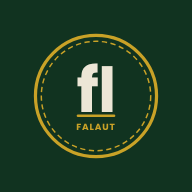
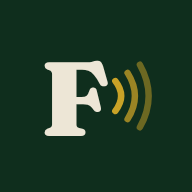
Add files via upload

Changed region(s): [[0.1562, 0.1562, 0.8438, 0.8438]]

diff --git a/index.html b/index.html
@@ -6,7 +6,7 @@
 <title>Falaut — Alemão (e inglês) de verdade, não de sala de aula</title>
 
 <!-- ============================================================
-     Falaut PWA  v15.0.0
+     Falaut PWA  v15.2.0
      Cole este bloco no <head> do index.html, logo depois do <title>.
      ============================================================ -->
 
@@ -66,7 +66,7 @@
 <meta property="og:type" content="website">
 <meta property="og:title" content="Falaut — Alemão e inglês de verdade">
 <meta property="og:description" content="Sotaque, ruído de fundo, interrupções — pratique o idioma como ele realmente acontece no dia a dia, pra quem quer se envolver de verdade.">
-<meta property="og:image" content="https://falareal-site31.vercel.app/og-image.png">
+<meta property="og:image" content="https://falareal-site31.vercel.app/og-image.jpg">
 <meta property="og:image:width" content="1200">
 <meta property="og:image:height" content="630">
 <meta property="og:url" content="https://falareal-site31.vercel.app">
@@ -93,7 +93,7 @@
 <meta name="twitter:card" content="summary_large_image">
 <meta name="twitter:title" content="Falaut — Alemão e inglês de verdade">
 <meta name="twitter:description" content="Sotaque, ruído de fundo, interrupções — pratique o idioma como ele realmente acontece no dia a dia, pra quem quer se envolver de verdade.">
-<meta name="twitter:image" content="https://falareal-site31.vercel.app/og-image.png">
+<meta name="twitter:image" content="https://falareal-site31.vercel.app/og-image.jpg">
 
 <link rel="icon" type="image/png" href="/favicon-32.png">
 <link rel="apple-touch-icon" href="/apple-touch-icon.png">
@@ -1387,6 +1387,12 @@
     .hero-visual{max-width:220px;}
     .feedback-fab, .mobile-account-fab{width:44px; height:44px; font-size:1.1rem;}
   }
+  /* v15.2.0: mascote no topo e na lição */
+  .hero-mascote img{width:100%; height:auto; display:block; -webkit-mask-image:linear-gradient(to bottom,#000 78%,transparent 100%); mask-image:linear-gradient(to bottom,#000 78%,transparent 100%);}
+  @media (min-width:901px){ .hero-top{grid-template-columns:0.8fr 1.2fr;} .hero-mascote{order:-1;} }
+  .lc-mascote{display:flex; align-items:center; gap:12px; margin-bottom:16px;}
+  .lc-mascote img{width:56px; height:56px; border-radius:50%; background:var(--teal); object-fit:cover; flex:none; box-shadow:0 0 0 3px rgba(240,166,58,0.6);}
+  .lc-mascote .lc-status{margin:0; text-align:left;}
   /* v15.0.0: LIÇÃO DO DIA (#licao) */
   #licao{padding:90px 0 70px;}
   .lc-card{max-width:620px; margin:0 auto; background:var(--ink-soft); border:1px solid var(--line); border-radius:22px; padding:24px; box-shadow:0 18px 50px rgba(0,0,0,0.3);}
@@ -1494,28 +1500,8 @@
         </div>
       </div>
 
-      <div class="hero-visual" aria-hidden="true">
-        <svg viewBox="0 0 480 480" xmlns="http://www.w3.org/2000/svg" class="hero-illustration-svg">
-<path d="M 100 90 Q 250 240 320 420" fill="none" style="stroke:var(--line); stroke-width:2; stroke-dasharray:4 8;" />
-<path d="M 48 40 H 162 A 18 18 0 0 1 180 58 V 92 A 18 18 0 0 1 162 110 H 48 A 18 18 0 0 1 30 92 V 58 A 18 18 0 0 1 48 40 Z" style="fill:var(--ink-soft); stroke:var(--teal); stroke-width:2;" opacity="0.50" class="bubble" />
-<path d="M 50.0 75.0 L 52.8 75.4 L 55.5 75.9 L 58.2 76.4 L 61.0 77.0 L 63.8 77.5 L 66.5 78.0 L 69.2 78.5 L 72.0 78.8 L 74.8 78.9 L 77.5 78.9 L 80.2 78.8 L 83.0 78.4 L 85.8 77.9 L 88.5 77.3 L 91.2 76.5 L 94.0 75.6 L 96.8 74.7 L 99.5 73.8 L 102.2 72.9 L 105.0 72.1 L 107.8 71.4 L 110.5 70.8 L 113.2 70.4 L 116.0 70.2 L 118.8 70.2 L 121.5 70.4 L 124.2 70.8 L 127.0 71.3 L 129.8 71.9 L 132.5 72.6 L 135.2 73.3 L 138.0 74.1 L 140.8 74.8 L 143.5 75.4 L 146.2 76.0 L 149.0 76.4 L 151.8 76.7 L 154.5 76.9 L 157.2 77.0 L 160.0 76.9" fill="none" style="stroke:var(--teal); stroke-width:3; stroke-linecap:round; stroke-linejoin:round;" />
-<path d="M 158 130 H 302 A 18 18 0 0 1 320 148 V 192 A 18 18 0 0 1 302 210 H 158 A 18 18 0 0 1 140 192 V 148 A 18 18 0 0 1 158 130 Z" style="fill:var(--ink-soft); stroke:var(--teal); stroke-width:2;" opacity="0.62" class="bubble" />
-<path d="M 160.0 170.0 L 163.5 171.1 L 167.0 172.4 L 170.5 173.6 L 174.0 174.8 L 177.5 175.6 L 181.0 176.0 L 184.5 175.9 L 188.0 175.2 L 191.5 174.0 L 195.0 172.3 L 198.5 170.2 L 202.0 168.0 L 205.5 165.8 L 209.0 163.9 L 212.5 162.3 L 216.0 161.4 L 219.5 161.2 L 223.0 161.7 L 226.5 162.9 L 230.0 164.7 L 233.5 167.0 L 237.0 169.4 L 240.5 171.9 L 244.0 174.2 L 247.5 176.1 L 251.0 177.4 L 254.5 178.0 L 258.0 178.0 L 261.5 177.3 L 265.0 176.0 L 268.5 174.4 L 272.0 172.5 L 275.5 170.6 L 279.0 168.9 L 282.5 167.4 L 286.0 166.4 L 289.5 165.8 L 293.0 165.7 L 296.5 166.0 L 300.0 166.6" fill="none" style="stroke:var(--teal); stroke-width:3; stroke-linecap:round; stroke-linejoin:round;" />
-<path d="M 108 240 H 282 A 18 18 0 0 1 300 258 V 312 A 18 18 0 0 1 282 330 H 108 A 18 18 0 0 1 90 312 V 258 A 18 18 0 0 1 108 240 Z" style="fill:var(--ink-soft); stroke:var(--amber); stroke-width:2;" opacity="0.74" class="bubble" />
-<path d="M 110.0 285.0 L 114.2 287.7 L 118.5 290.4 L 122.8 292.6 L 127.0 293.8 L 131.2 293.4 L 135.5 291.4 L 139.8 288.0 L 144.0 283.6 L 148.2 279.0 L 152.5 275.0 L 156.8 272.5 L 161.0 272.0 L 165.2 273.7 L 169.5 277.5 L 173.8 282.8 L 178.0 288.6 L 182.2 294.0 L 186.5 298.0 L 190.8 299.9 L 195.0 299.3 L 199.2 296.2 L 203.5 291.3 L 207.8 285.5 L 212.0 279.6 L 216.2 274.9 L 220.5 272.0 L 224.8 271.3 L 229.0 273.0 L 233.2 276.5 L 237.5 281.2 L 241.8 286.1 L 246.0 290.4 L 250.2 293.5 L 254.5 294.8 L 258.8 294.3 L 263.0 292.4 L 267.2 289.6 L 271.5 286.4 L 275.8 283.5 L 280.0 281.5" fill="none" style="stroke:var(--amber); stroke-width:3; stroke-linecap:round; stroke-linejoin:round;" />
-<path d="M 178 350 H 382 A 18 18 0 0 1 400 368 V 432 A 18 18 0 0 1 382 450 H 178 A 18 18 0 0 1 160 432 V 368 A 18 18 0 0 1 178 350 Z" style="fill:var(--ink-soft); stroke:var(--rust); stroke-width:2;" opacity="0.86" class="bubble bubble-loud" />
-<path d="M 180.0 400.0 L 185.0 405.7 L 190.0 410.7 L 195.0 412.9 L 200.0 410.8 L 205.0 404.7 L 210.0 396.0 L 215.0 387.5 L 220.0 382.3 L 225.0 382.4 L 230.0 388.4 L 235.0 398.7 L 240.0 410.2 L 245.0 419.2 L 250.0 422.4 L 255.0 418.5 L 260.0 408.6 L 265.0 395.6 L 270.0 383.7 L 275.0 376.8 L 280.0 377.2 L 285.0 384.7 L 290.0 397.0 L 295.0 410.0 L 300.0 419.7 L 305.0 422.9 L 310.0 418.9 L 315.0 409.3 L 320.0 397.3 L 325.0 386.9 L 330.0 381.2 L 335.0 381.6 L 340.0 387.6 L 345.0 396.8 L 350.0 405.9 L 355.0 412.2 L 360.0 414.0 L 365.0 411.4 L 370.0 405.7 L 375.0 399.3 L 380.0 394.4" fill="none" style="stroke:var(--rust); stroke-width:3; stroke-linecap:round; stroke-linejoin:round;" />
-<g class="burst">
-<line x1="404.0" y1="360.0" x2="420.0" y2="360.0" style="stroke:var(--rust); stroke-width:2; stroke-linecap:round;" opacity="0.7" />
-<line x1="399.9" y1="369.9" x2="411.2" y2="381.2" style="stroke:var(--rust); stroke-width:2; stroke-linecap:round;" opacity="0.7" />
-<line x1="390.0" y1="374.0" x2="390.0" y2="390.0" style="stroke:var(--rust); stroke-width:2; stroke-linecap:round;" opacity="0.7" />
-<line x1="380.1" y1="369.9" x2="368.8" y2="381.2" style="stroke:var(--rust); stroke-width:2; stroke-linecap:round;" opacity="0.7" />
-<line x1="376.0" y1="360.0" x2="360.0" y2="360.0" style="stroke:var(--rust); stroke-width:2; stroke-linecap:round;" opacity="0.7" />
-<line x1="380.1" y1="350.1" x2="368.8" y2="338.8" style="stroke:var(--rust); stroke-width:2; stroke-linecap:round;" opacity="0.7" />
-<line x1="390.0" y1="346.0" x2="390.0" y2="330.0" style="stroke:var(--rust); stroke-width:2; stroke-linecap:round;" opacity="0.7" />
-<line x1="399.9" y1="350.1" x2="411.2" y2="338.8" style="stroke:var(--rust); stroke-width:2; stroke-linecap:round;" opacity="0.7" />
-</g>
-</svg>
+      <div class="hero-visual hero-mascote" aria-hidden="true">
+        <img src="/mascote.webp" alt="" width="720" height="720" fetchpriority="high">
       </div>
     </div>
 
@@ -2588,7 +2574,7 @@
 <footer>
   <div class="wrap">
     <div class="footer-top">
-      <div class="logo">fala<span>ut</span> <span class="version-tag">v15.0.0</span></div>
+      <div class="logo">fala<span>ut</span> <span class="version-tag">v15.2.0</span></div>
       <p class="lang-de">Feito por um brazuca que já viveu mais de 6 anos na Alemanha.</p>
       <p class="lang-en">feito pra quem já cansou do inglês de laboratório</p>
         <p class="lang-pt" data-i18n="footerTaglinePt">Made by a Brazilian who wants to show you real Portuguese.</p>
@@ -9146,7 +9132,9 @@
     if(sd && sd.lastDate && s > 0 && sd.lastDate !== today()){ msg = tr('lcAtRisk', { n: s }); cls += ' risk'; }
     else if(sd && sd.lastDate && s === 0){ msg = tr('lcBroken'); }
     else if(!sd || !sd.lastDate){ msg = tr('lcFirst'); }
-    body.appendChild(el('p', cls, msg));
+    const mrow = el('div', 'lc-mascote');
+    const mimg = document.createElement('img'); mimg.src = '/mascote-cabeca.webp'; mimg.alt = ''; mrow.appendChild(mimg);
+    mrow.appendChild(el('p', cls, msg)); body.appendChild(mrow);
     const prev = el('div', 'lc-list');
     words(st.l, st.idx).forEach(w => { const r = el('div', 'lc-li'); r.appendChild(el('span', null, w.emoji)); r.appendChild(el('span', null, '•••')); prev.appendChild(r); });
     body.appendChild(prev);
@@ -9238,7 +9226,11 @@
     header(); bar(1);
     const body = $('lc-body'); body.textContent = '';
     const s = streakNow();
-    if(fresh) body.appendChild(el('div', 'lc-done-title', tr('lcDoneTitle', { n: s, d: tr(s === 1 ? 'lcDay' : 'lcDays') })));
+    if(fresh){
+      const mi = document.createElement('img'); mi.src = '/mascote.webp'; mi.alt = ''; mi.style.cssText = 'display:block;width:150px;height:150px;margin:0 auto -6px;object-fit:contain';
+      body.appendChild(mi);
+      body.appendChild(el('div', 'lc-done-title', tr('lcDoneTitle', { n: s, d: tr(s === 1 ? 'lcDay' : 'lcDays') })));
+    }
     else body.appendChild(el('p', 'lc-status', tr('lcDoneToday')));
     body.appendChild(el('p', 'lc-note', tr('lcDoneSub')));
     const list = el('div', 'lc-list');

diff --git a/sw.js b/sw.js
@@ -28,7 +28,7 @@
    embaixo do usuário no meio de um exercício.
    ============================================================ */
 
-const CACHE_VERSION = 'falaut-v15.0.0';
+const CACHE_VERSION = 'falaut-v15.2.0';
 const OFFLINE_URL   = '/offline.html';
 const NAV_TIMEOUT   = 4000;
 

diff --git a/CHANGELOG.md b/CHANGELOG.md
@@ -1,5 +1,41 @@
 # CHANGELOG — Falaut
 
+## v15.2.0 — 2026-11-13 · Mascote anime no site + banner com a marca
+
+**Onde está:** topo do site (`.hero-visual`), card da **Lição do dia** (`#licao`) e prévia de link no WhatsApp/Instagram (`og-image.jpg`).
+
+**O que mudou**
+- **Topo:** a ilustração antiga de ondas foi trocada pelo mascote (jaqueta verde, fone com o F, joinha). No computador ele fica à esquerda, "apresentando" o título; no celular, fica em cima do título.
+- **Lição do dia:** o rosto do mascote aparece ao lado do aviso ("Primeira lição…", "⚠ Faz hoje pra não perder…"). Quando a pessoa termina a lição, o mascote aparece grande, comemorando junto com a 🔥.
+- **Prévia de link:** quem compartilha o site no WhatsApp agora vê o banner com o mascote, a logo e o slogan (`og-image.jpg`, 1200×630).
+
+**Como funciona:** imagens em WebP, leves: `mascote.webp` (720 px, ~100 KB) e `mascote-cabeca.webp` (240 px, ~25 KB). A parte de baixo do mascote some num degradê pra não ficar um corte reto.
+
+**Arquivos para subir na raiz do repositório:** `index.html`, `sw.js`, `CHANGELOG.md`, `mascote.webp`, `mascote-cabeca.webp`, `og-image.jpg`.
+Service Worker: cache `falaut-v15.2.0`.
+
+## v15.1.1 — 2026-11-13 · Logo final: F creme com ondas douradas (versão C)
+
+**Onde está:** ícone do app, favicon e telas de abertura (splash).
+
+**O que mudou:** o F dourado da v15.1.0 foi trocado pela versão escolhida, a C. É um **F creme (Fraunces) sobre o verde da marca, com 3 ondas douradas** saindo dele, de "laut", ou seja, falar alto. Nas telas de abertura, o ícone ganhou uma borda dourada fina pra não sumir no fundo verde.
+
+**Arquivos para subir na raiz do repositório:** `index.html`, `sw.js`, `CHANGELOG.md`, os PNGs de ícone (`icon-*`, `apple-touch-icon`, `favicon-*`), a pasta `icons/` e a pasta `splash/`.
+Service Worker: cache `falaut-v15.1.1`.
+
+## v15.1.0 — 2026-11-13 · Logo nova do app: um F sozinho
+
+**Onde está:** ícone do app instalado (tela inicial do celular), favicon da aba e telas de abertura (splash) do iPhone/iPad.
+
+**O que mudou:** o selo verde com "fl" + "FALAUT" deu lugar a um **F grande** (Fraunces Black, verde-escuro) sobre **fundo dourado**, com um ponto vermelho-tijolo ("F."). O dourado se destaca na tela inicial, e o F continua legível até no tamanho de favicon (16 px). As splash screens agora mostram o ícone novo sobre o verde da marca.
+
+**Como funciona:** os PNGs têm os mesmos nomes, na raiz e na pasta `icons/`: `icon-192/512`, `icon-192/512-maskable` (com o F menor, dentro da área segura do Android), `apple-touch-icon`, `favicon-16/32` e `splash/*.png`. O `manifest.json` não mudou.
+
+**Atenção:** no iPhone, o ícone de quem já instalou só troca removendo o app da tela inicial e adicionando de novo. No Android, troca sozinho em alguns dias.
+
+**Arquivos para subir na raiz do repositório:** `index.html`, `sw.js`, `CHANGELOG.md`, os PNGs de ícone, a pasta `icons/` e a pasta `splash/`.
+Service Worker: cache `falaut-v15.1.0`.
+
 ## v15.0.0 — 2026-11-13 · Lição do dia (5 palavras) + ofensiva única que salva direito
 
 **Onde está:** nova seção **Lição do dia** (`#licao`), logo abaixo do topo. Os botões **Quero testar**, **Quero começar de graça**, **Testar agora** e o botão do card da sequência levam pra ela.
